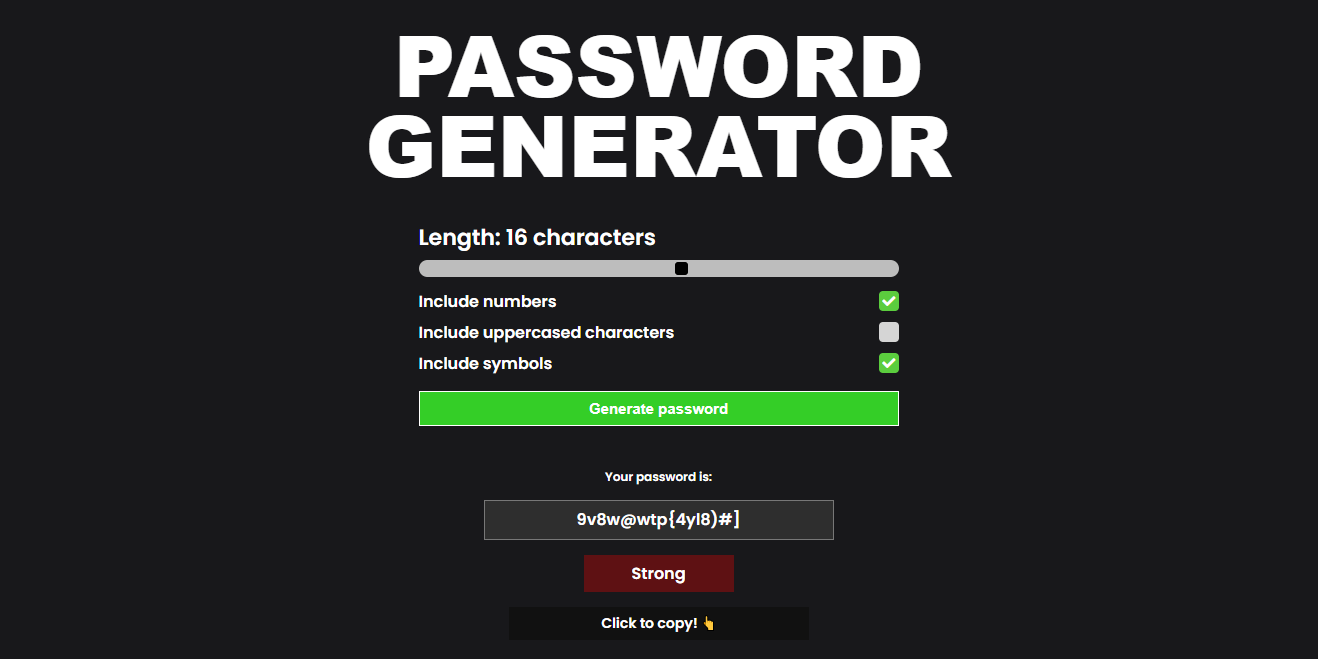
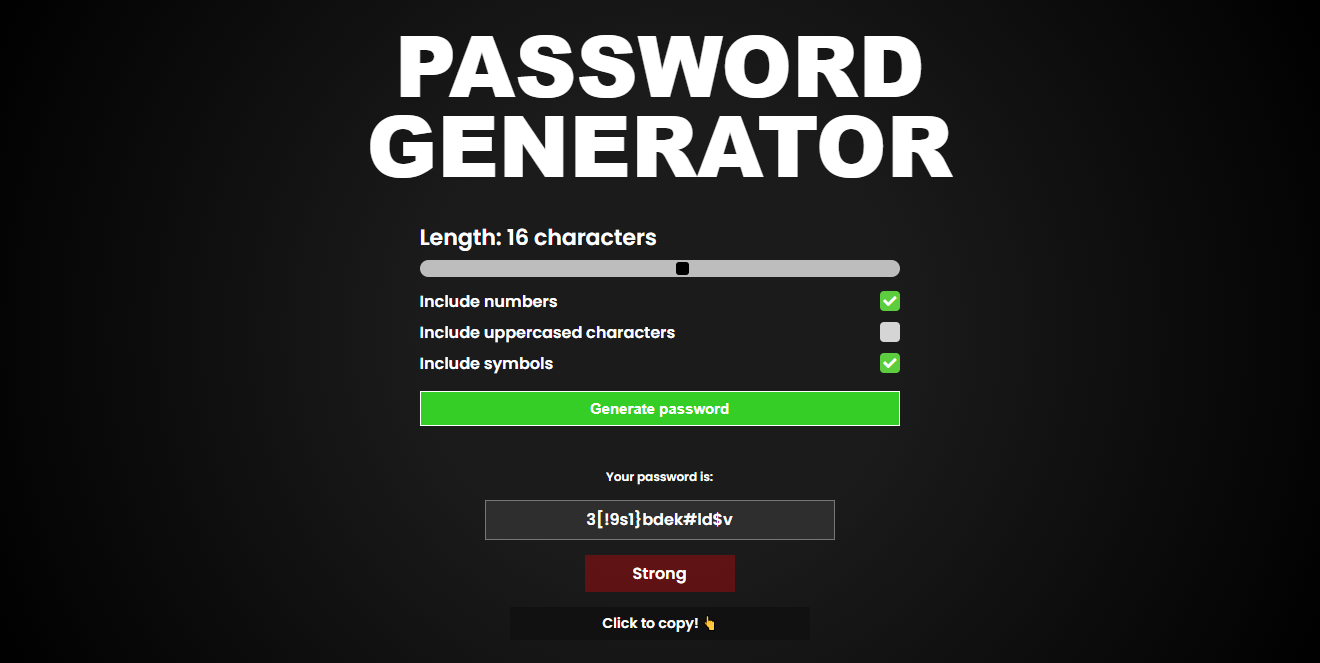
Style changes

diff --git a/style.css b/style.css
@@ -6,7 +6,8 @@
 }
 
 body{
-   background-color: #18181B;
+   background: rgb(27,27,28);
+   background: radial-gradient(circle, rgba(27,27,28,1) 32%, rgba(0,0,0,1) 100%);   
    color: #FFF;
    width: 100%;
    height: 100vh;
